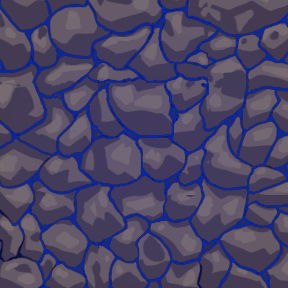
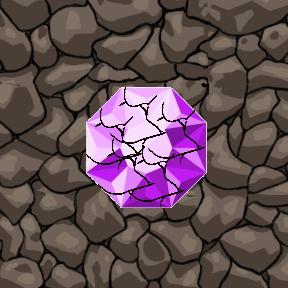
changed item prices and changed jewel images

diff --git a/js/player.js b/js/player.js
@@ -141,18 +141,18 @@ Player.prototype.setListeners = function() {
       }
     } 
     else if (event.keyCode === this.game.keys.ITEM1 && this.game.menuActivated === 1) {
-      if(this.game.money >= 300 && this.haveItem1 === 0){
+      if(this.game.money >= 400 && this.haveItem1 === 0){
         this.haveItem1 = 1                                  // Buys Item 1
-        this.game.money -= 300                              // Substracts money from player
+        this.game.money -= 400                              // Substracts money from player
       } else if(this.haveItem1 === 1){                      // Checks if you already have the item
       } else{
                                                             // Tells the user that they don't have enough money
       }
     } 
     else if(event.keyCode === this.game.keys.ITEM2 && this.game.menuActivated === 1){
-      if(this.game.money >= 500 && this.haveItem2 === 0){
+      if(this.game.money >= 1000 && this.haveItem2 === 0){
         this.haveItem2 = 1                                  // Buys Item 2
-        this.game.money -= 500                              // Substracts money from player
+        this.game.money -= 1000                              // Substracts money from player
       } else if(this.haveItem2 === 1){                      // Checks if you already have the item
       } else{
                                                             // Tells the user that they don't have enough money

diff --git a/js/maptracker.js b/js/maptracker.js
@@ -17,13 +17,13 @@ function MapTracker(game){
         [2,2,2,2,6,2,2,2,6,2,2,2,2,2,2],  // 3 = tile con 1 golpe
         [2,2,2,2,2,6,2,2,2,2,2,2,2,2,2],  // 4 = espacio sin colisión pero con fondo de caverna
         [2,2,2,2,2,2,2,2,2,4,4,4,4,2,2],  // 5 = enemigo
-        [2,2,6,2,2,2,2,2,2,2,2,2,2,6,2],  // 6 = joya sin golpe
-        [2,2,2,2,2,2,2,2,2,2,2,2,2,2,2],  // 7 = joya con 1 golpe
-        [2,2,2,2,2,2,2,2,2,2,6,2,2,2,2],
-        [2,2,2,2,2,6,2,2,2,2,2,2,2,2,2],
-        [2,2,2,2,2,2,2,2,2,2,2,2,2,2,2],
-        [2,2,2,2,2,2,2,2,2,2,2,2,2,2,2],
-        [2,2,2,2,2,2,2,2,2,2,2,2,2,2,2],
+        [2,2,6,2,2,6,2,2,2,2,2,2,2,6,2],  // 6 = joya sin golpe
+        [2,2,2,2,2,2,6,2,2,2,2,2,6,2,2],  // 7 = joya con 1 golpe
+        [2,2,2,2,2,2,2,6,2,2,6,2,2,2,2],
+        [2,2,6,2,2,6,2,2,2,2,6,2,2,2,2],
+        [2,2,2,2,2,2,2,6,2,2,2,2,2,2,2],
+        [2,2,2,2,2,6,2,2,2,2,6,2,2,2,2],
+        [2,2,2,6,2,2,2,2,2,2,6,2,2,2,2],
         [2,2,2,2,2,2,2,2,2,2,2,2,2,2,2],
         [2,2,2,2,2,2,2,2,2,2,2,2,2,2,2],
         [2,2,2,2,2,2,2,2,2,2,2,2,2,2,2],

diff --git a/js/ui.js b/js/ui.js
@@ -73,11 +73,11 @@ Ui.prototype.drawItem2 = function(){
 }
 
 Ui.prototype.drawEnemyHealth = function(){
-    this.game.ctx.fillStyle = "green"
+    this.game.ctx.fillStyle = "#a30910"
     this.game.ctx.fillRect(this.game.enemy.enemy1x +22, this.game.enemy.enemy1y-37, 55, 35)
     
     this.game.ctx.font = "25px Love Ya Like A Sister";
-    this.game.ctx.fillStyle = "red";
+    this.game.ctx.fillStyle = "white";
     this.game.ctx.fillText(this.game.enemy.enemy1Health, this.game.enemy.enemy1x+30, this.game.enemy.enemy1y-11);
 }
 

diff --git a/js/index.js b/js/index.js
@@ -1,6 +1,8 @@
 window.onload = function() {
     document.getElementById("start-button").onclick = function() {
+      document.body.style.background = "black"
       document.getElementById("start-button").style.display = "none"
+      document.getElementById("logo").style.display = "none"
       Game.init("canvas")
     }
   }

diff --git a/style.css b/style.css
@@ -18,4 +18,12 @@ body {
   border-color: #fcdeae;
   font-family: "Love Ya Like A Sister";
   font-size: 30px;
+  cursor: pointer;
+}
+
+#logo {
+  position: fixed;
+  top: 220px;
+  left: 220px;
+  width: 75%;
 }

diff --git a/index.html b/index.html
@@ -20,6 +20,7 @@
 </head>
 <body>
     <canvas id="canvas"></canvas>
+    <img id="logo" src="img/logo.png">
     <button id="start-button">Start Game</button>
 </body>
 </html>
